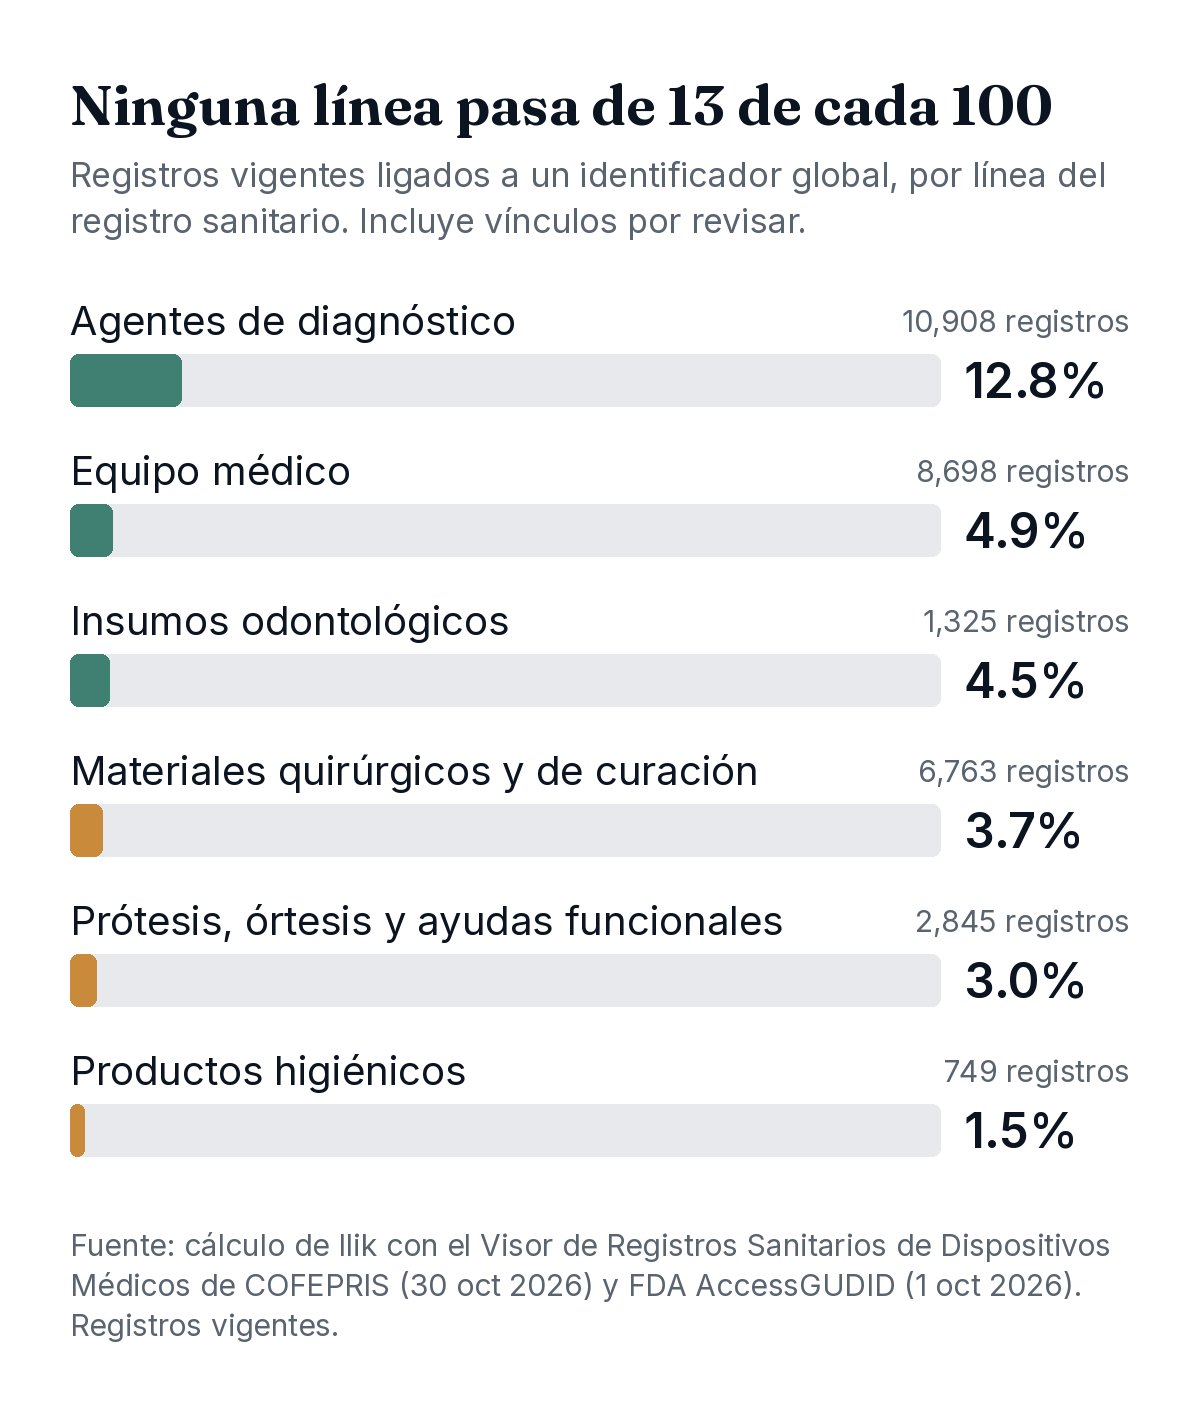
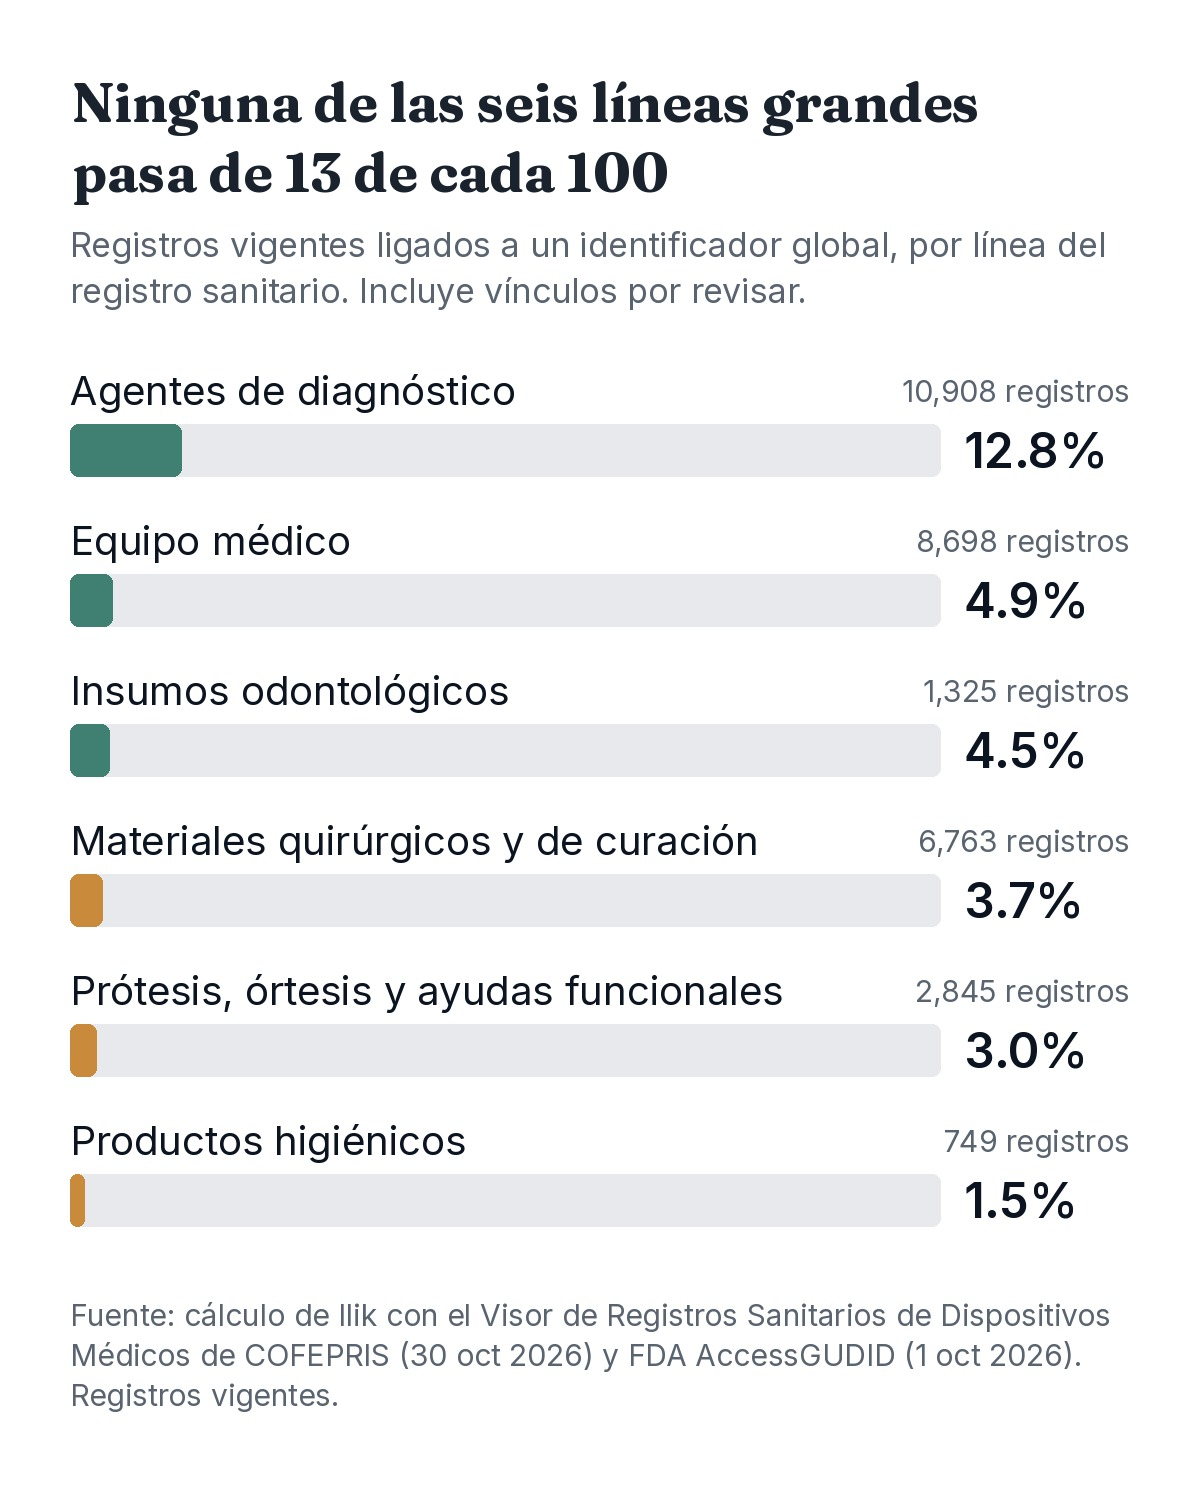
Observatorio: correcciones al artículo de dispositivos (26 nov)
- Título de la figura 1: ninguna de las seis líneas grandes pasa de 13 de cada 100
- NOM-137 citada contra su texto en el DOF; se retiran las fuentes secundarias
- Nota metodológica: cruce por familia de marca

Claude-Session: https://claude.ai/code/session_01P1zS15ujNGx1WSKQjZu3GA

diff --git a/observatorio/que-tan-comparable-es-lo-que-su-hospital-compra-en-dispositivos/index.html b/observatorio/que-tan-comparable-es-lo-que-su-hospital-compra-en-dispositivos/index.html
@@ -114,7 +114,7 @@
                     <p>No es parejo. En agentes de diagnóstico llega a 12.8%. En equipo médico baja a 4.9%; en insumos odontológicos, a 4.5%; en materiales quirúrgicos y de curación, a 3.7%; en prótesis, órtesis y ayudas funcionales, a 3.0%, y en productos higiénicos, a 1.5%.<sup><a href="#fuente-1">1</a></sup><sup><a href="#fuente-2">2</a></sup></p>
 
                     <figure>
-                        <img src="figura-1.jpg" alt="Registros vigentes de dispositivos ligados a por lo menos un identificador global, por línea del registro sanitario. Cálculo de Ilik con COFEPRIS y FD" width="1200" height="1416" loading="lazy">
+                        <img src="figura-1.jpg" alt="Ninguna de las seis líneas grandes pasa de 13 de cada 100. Registros vigentes ligados a por lo menos un identificador global, por línea del registro sanitario: agentes de diagnóstico 12.8%, equipo médico 4.9%, insumos odontológicos 4.5%, materiales quirúrgicos y de curación 3.7%, prótesis, órtesis y ayudas funcionales 3.0%, productos higiénicos 1.5%." width="1200" height="1486" loading="lazy">
                         <figcaption>Registros vigentes de dispositivos ligados a por lo menos un identificador global, por línea del registro sanitario. Cálculo de Ilik con COFEPRIS y FDA AccessGUDID.</figcaption>
                     </figure>
 
@@ -135,9 +135,9 @@
 
                     <h2>Lo que cambia en mayo de 2027</h2>
 
-                    <p>La NOM-137-SSA1-2025, de etiquetado de dispositivos médicos, se publicó en el Diario Oficial de la Federación el 19 de mayo de 2026. Sustituye a la norma de 2008 y entra en vigor el 14 de mayo de 2027.<sup><a href="#fuente-3" id="ref-3">3</a></sup><sup><a href="#fuente-4" id="ref-4">4</a></sup> Después de esa fecha hay 180 días más para agotar los envases hechos con la regla anterior.<sup><a href="#fuente-5" id="ref-5">5</a></sup></p>
+                    <p>La NOM-137-SSA1-2025, de etiquetado de dispositivos médicos, se publicó en el Diario Oficial de la Federación el 19 de mayo de 2026. Sustituye a la norma de 2008 y entra en vigor el 14 de mayo de 2027.<sup><a href="#fuente-3" id="ref-3">3</a></sup><sup><a href="#fuente-4" id="ref-4">4</a></sup> Después de esa fecha hay 180 días naturales más para agotar las existencias de envases y producto terminado hechos con la regla anterior.<sup><a href="#fuente-3">3</a></sup></p>
 
-                    <p>Según análisis especializados, la norma pide en la etiqueta datos de trazabilidad como lote, serie y fechas, deja los códigos QR y RFID como opción y no crea un sistema de identificación única como el de Estados Unidos o la Unión Europea. <span class="tag-s">[S]</span><sup><a href="#fuente-6" id="ref-6">6</a></sup> En otras palabras: desde 2027 las etiquetas dirán más, pero seguirá sin haber un catálogo público que ligue un registro sanitario con un código.</p>
+                    <p>La norma pide que la etiqueta lleve el número de lote o de serie, y deja los códigos de barras, los QR y el RFID como complemento opcional. Solo pide un identificador único para el software que funciona como dispositivo médico; para los dispositivos físicos no crea uno como el de Estados Unidos o la Unión Europea.<sup><a href="#fuente-3">3</a></sup> En otras palabras: desde 2027 las etiquetas dirán más, pero seguirá sin haber un catálogo público que ligue un registro sanitario con un código.</p>
 
                     <h2>Qué pueden hacer desde compras</h2>
 
@@ -145,7 +145,7 @@
 
                     <section class="method-note" aria-labelledby="nota-metodo">
                         <h2 id="nota-metodo">Nota metodológica</h2>
-                        <p>Fuentes: descarga completa del Visor de Registros Sanitarios de Dispositivos Médicos de COFEPRIS del 30 de octubre de 2026 (33,575 registros, 31,357 vigentes; 14 campos, ninguno de código de barras) y FDA AccessGUDID, versión del 1 de octubre de 2026 (1,550,466 identificadores de las 696 empresas que también son titulares en México). Vínculo: el titular de COFEPRIS se empata con la empresa de la FDA por la raíz de su nombre, sin razón social; el registro se liga a un identificador cuando todas las palabras distintivas de su nombre comercial aparecen en la marca, el modelo o la descripción de la FDA; si varios registros coinciden con el mismo identificador, gana el de nombre más específico y los empates se marcan como ambiguos. Las figuras no incluyen 69 registros de líneas con menos de 60 registros ni 306 fuera de las clases I a III (302 sin clase asignada y 4 en clase 0); los porcentajes de las figuras incluyen los vínculos por revisar. El 7.1% suma los vínculos de confianza alta y los que requieren revisión. Límites: solo cubre productos que también se venden en Estados Unidos; las marcas exclusivas de México y los titulares que son distribuidores locales no tienen identificador en esa base; la cifra no mide cuántos productos tienen GTIN. Las afirmaciones sobre el contenido de trazabilidad de la NOM-137 y sobre los códigos QR y RFID opcionales vienen de análisis especializados y están marcadas <span class="tag-s">[S]</span> hasta revisarlas contra el texto de la norma. No se usó ningún dato de ningún hospital.</p>
+                        <p>Fuentes: descarga completa del Visor de Registros Sanitarios de Dispositivos Médicos de COFEPRIS del 30 de octubre de 2026 (33,575 registros, 31,357 vigentes; 14 campos, ninguno de código de barras) y FDA AccessGUDID, versión del 1 de octubre de 2026 (1,550,466 identificadores de las 696 empresas que también son titulares en México). Vínculo: el titular de COFEPRIS se empata con la empresa de la FDA por la raíz de su nombre, sin razón social; el registro se liga a un identificador cuando todas las palabras distintivas de su nombre comercial aparecen en la marca, el modelo o la descripción de la FDA; si varios registros coinciden con el mismo identificador, gana el de nombre más específico y los empates se marcan como ambiguos. Las figuras no incluyen 69 registros de líneas con menos de 60 registros ni 306 fuera de las clases I a III (302 sin clase asignada y 4 en clase 0); los porcentajes de las figuras incluyen los vínculos por revisar. El 7.1% suma los vínculos de confianza alta y los que requieren revisión. Límites: solo cubre productos que también se venden en Estados Unidos; las marcas exclusivas de México y los titulares que son distribuidores locales no tienen identificador en esa base; la cifra no mide cuántos productos tienen GTIN. Un cruce más laxo, por familia de marca, liga más registros, pero no identifica el producto exacto; aun así, la mayoría queda sin vínculo. Lo que se afirma de la NOM-137 se revisó contra su texto en el Diario Oficial de la Federación: numerales 5.2, 5.10.6, 5.10.11.1, 6.3.1 y 11, y transitorio segundo. No se usó ningún dato de ningún hospital.</p>
                     </section>
 
                     <section class="sources" aria-labelledby="fuentes">
@@ -155,8 +155,6 @@
                             <li id="fuente-2">U.S. Food and Drug Administration y National Library of Medicine. &quot;AccessGUDID&quot;, versión del 1 de octubre de 2026. <a href="https://accessgudid.nlm.nih.gov" target="_blank" rel="noopener">Ver en accessgudid.nlm.nih.gov</a> <a href="#ref-2" aria-label="Volver al texto">↩</a></li>
                             <li id="fuente-3">Diario Oficial de la Federación. &quot;Norma Oficial Mexicana NOM-137-SSA1-2025, Etiquetado de dispositivos médicos&quot;, 19 de mayo de 2026. <a href="https://sidof.segob.gob.mx/notas/5787790" target="_blank" rel="noopener">Ver en sidof.segob.gob.mx</a> <a href="#ref-3" aria-label="Volver al texto">↩</a></li>
                             <li id="fuente-4">Secretaría de Economía, PLATIICA. &quot;NOM-137-SSA1-2025&quot;, ficha de la norma. <a href="https://platiica.economia.gob.mx/normalizacion/?p=249416" target="_blank" rel="noopener">Ver en platiica.economia.gob.mx</a> <a href="#ref-4" aria-label="Volver al texto">↩</a></li>
-                            <li id="fuente-5">Consultor Salud. &quot;NOM-137-SSA1-2025&quot;, 19 de mayo de 2026. <a href="https://consultorsalud.com.mx/?p=314794" target="_blank" rel="noopener">Ver en consultorsalud.com.mx</a> <a href="#ref-5" aria-label="Volver al texto">↩</a></li>
-                            <li id="fuente-6">Pure Global. &quot;México NOM-137-SSA1-2025 Actualización de etiquetado de dispositivos médicos&quot;, 26 de mayo de 2026. <a href="https://www.pureglobal.com/es/news/mexico-nom-137-ssa1-2025-medical-device-labeling-update" target="_blank" rel="noopener">Ver en pureglobal.com</a> <a href="#ref-6" aria-label="Volver al texto">↩</a></li>
                         </ol>
                     </section>
                 </div>
